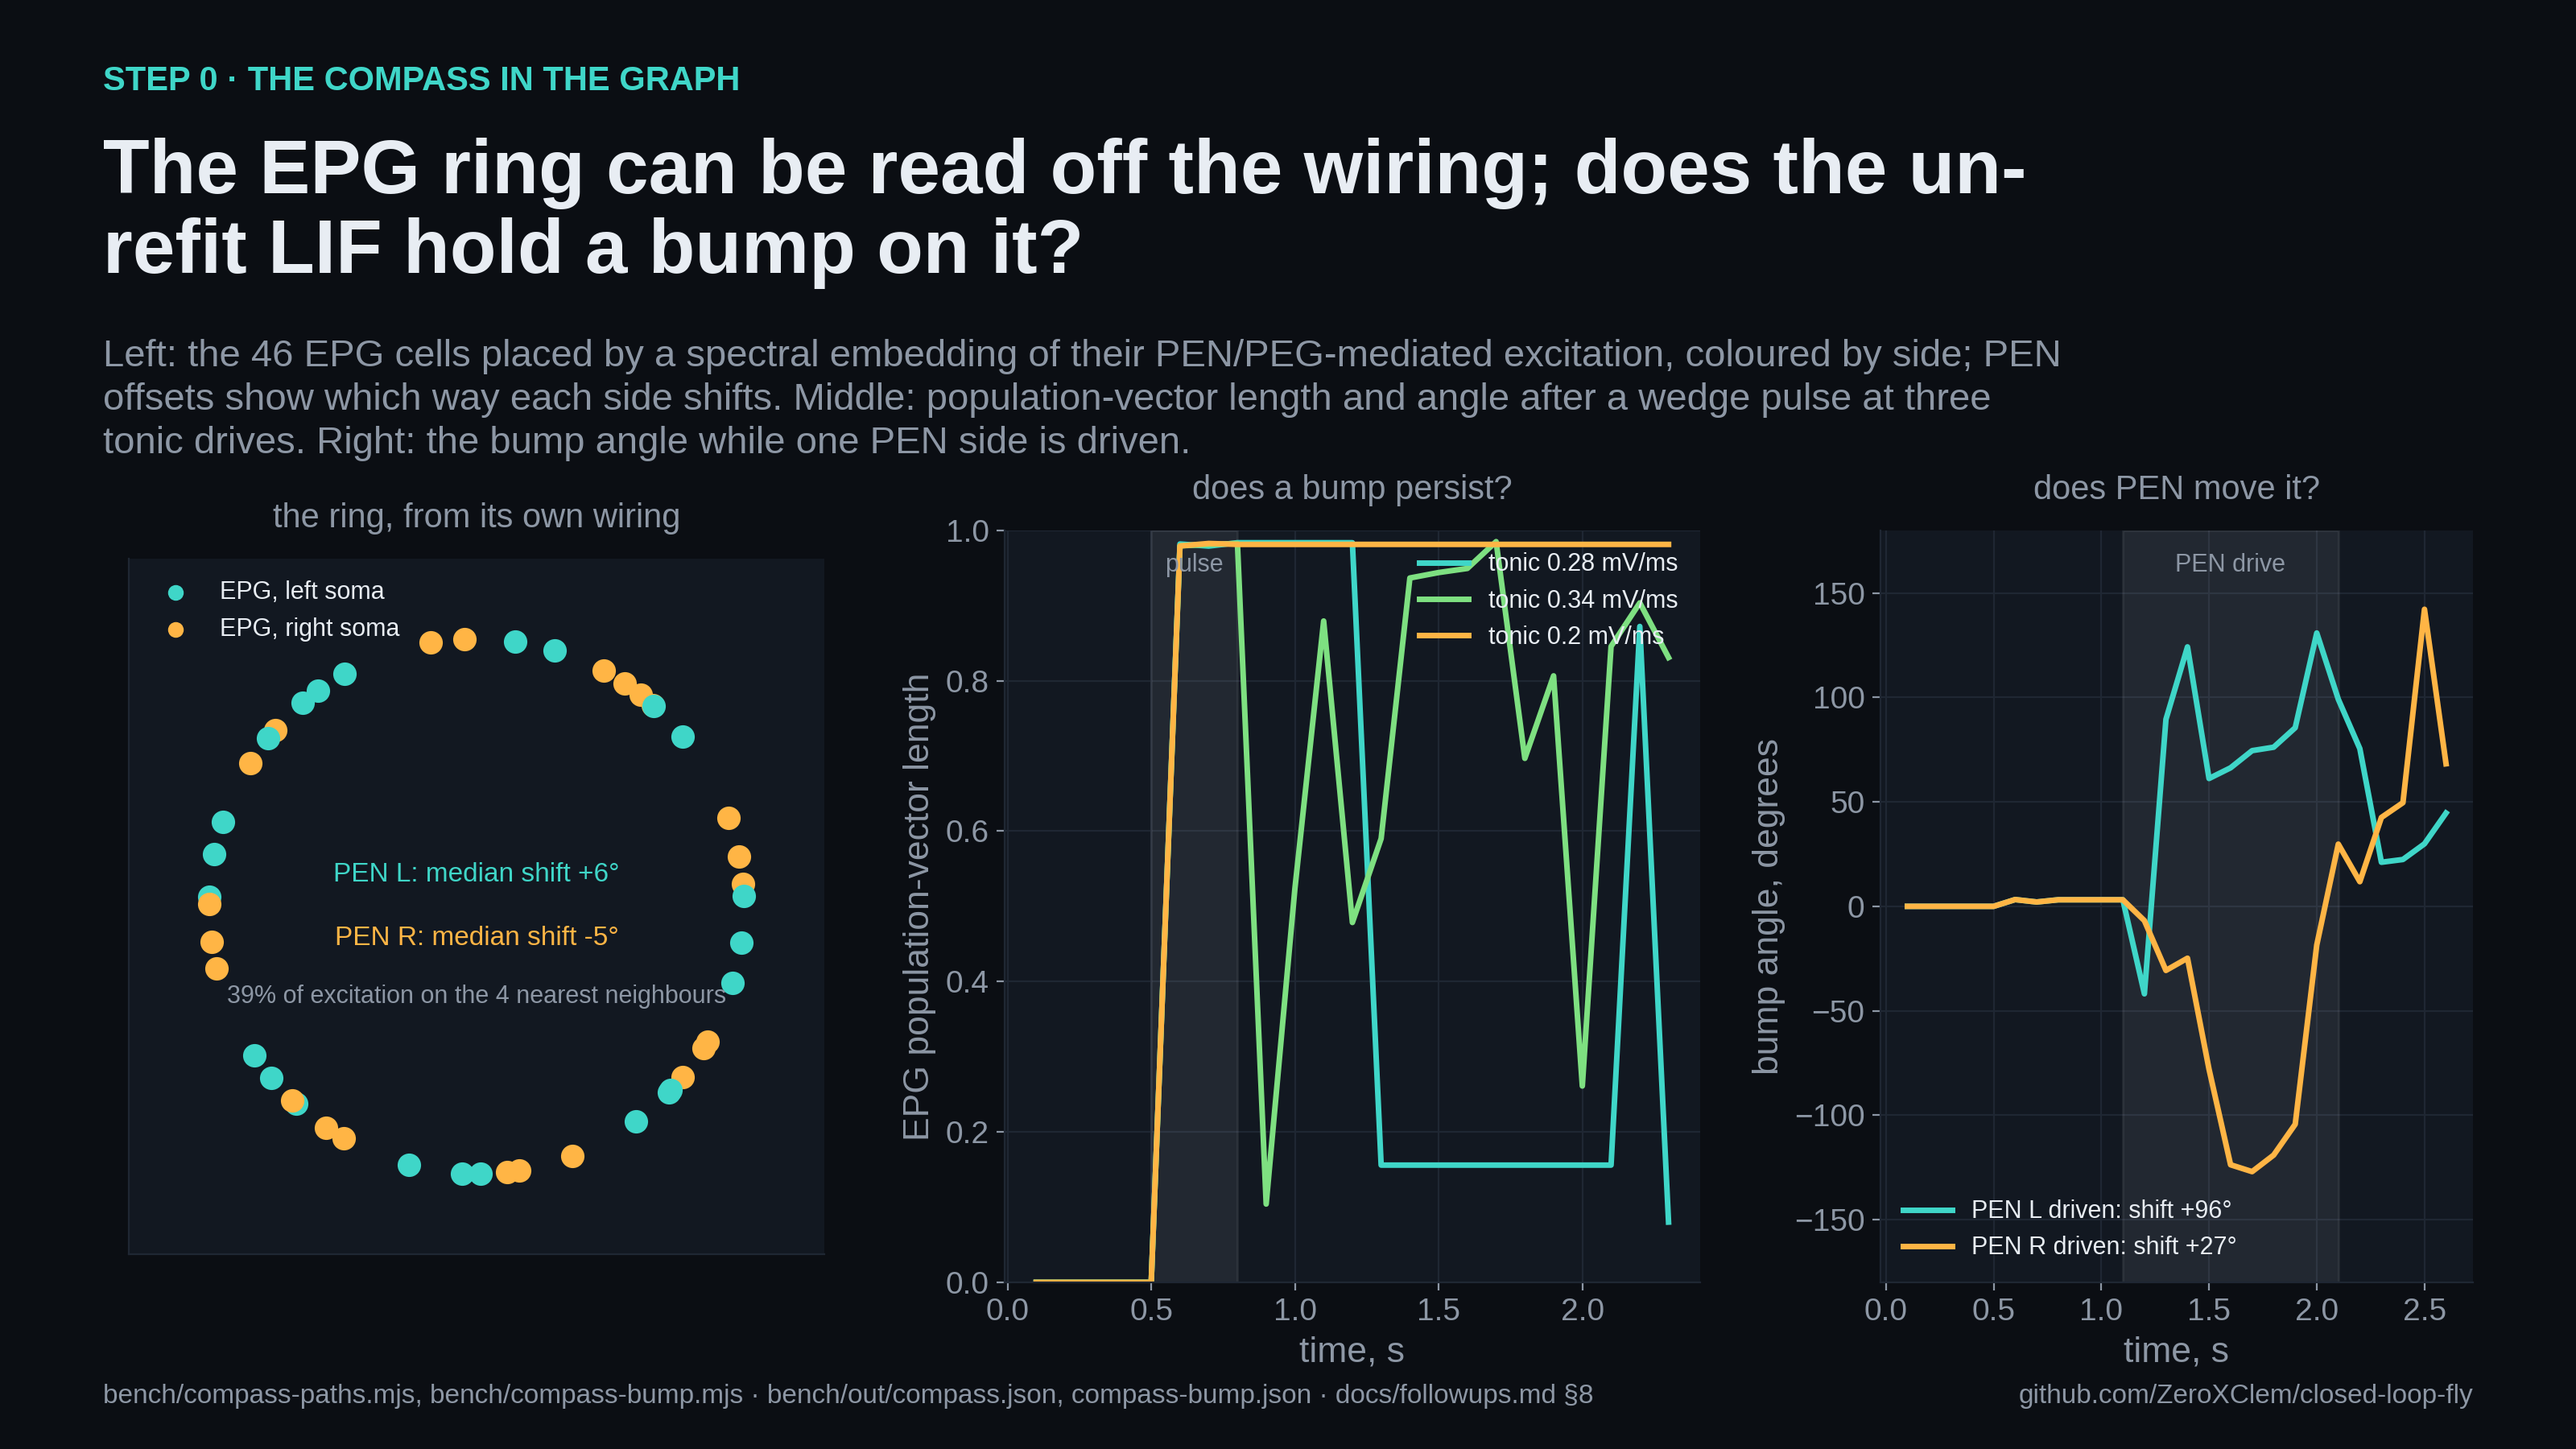
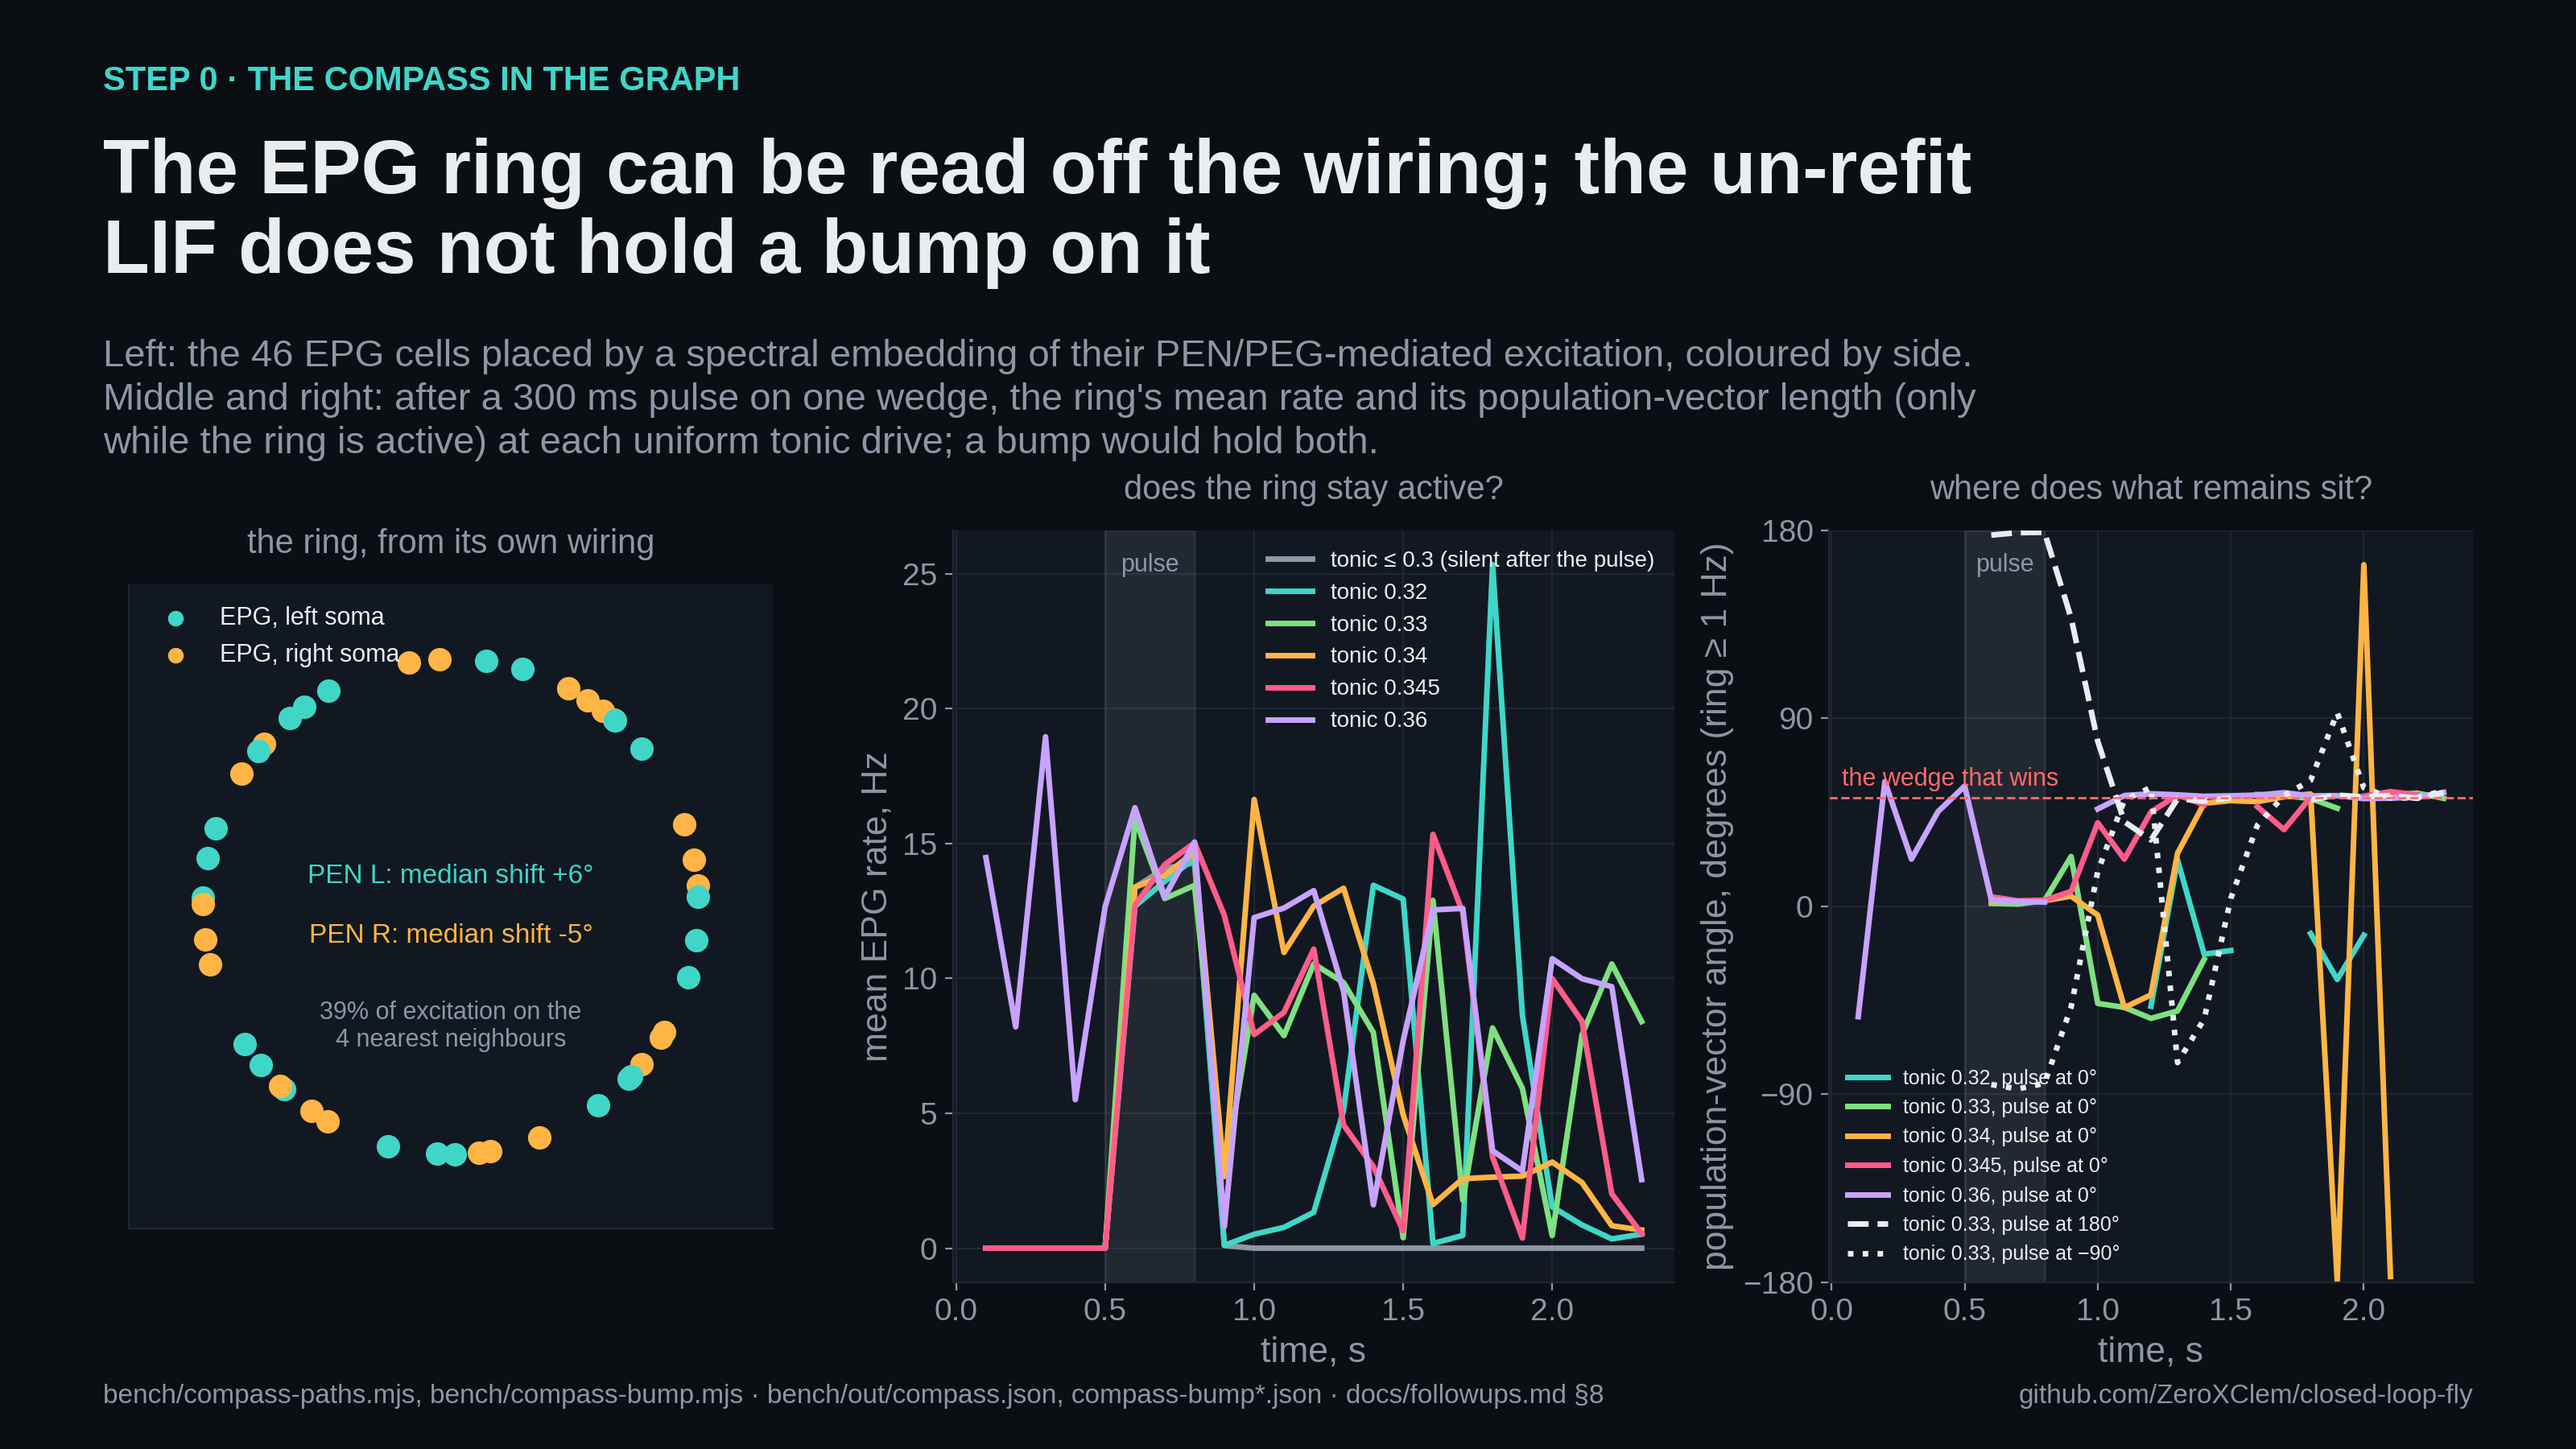
Step 0a closed: the compass is in the graph, the un-refit LIF's ring is a fixed point
bench/compass-bump.mjs (--tonics, --wedge, --out, --no-pen): uniform EPG tonic 0.20-0.36
mV/ms with a 300 ms wedge pulse. Below 0.32 the ring goes silent; from 0.33 up it survives
but always at the same wedge (~52 deg on the spectral ring) whether the pulse was at 0,
180 or -90 deg. No bump, no memory. docs/followups.md section 8 verdict, figure 22 (rate,
angle, off-wedge controls), HANDOFF step 0 (a closed, b open).

Claude-Session: https://claude.ai/code/session_01Xuh7MvrT6H8pCesLxmq4MB

diff --git a/docs/figures/make.py b/docs/figures/make.py
@@ -561,13 +561,18 @@ ALL.update(flight_gain=flight_gain, adaptation=adaptation)
 
 
 def compass():
-    cx, bp = load('compass.json'), load('compass-bump.json')
+    cx = load('compass.json')
     if not cx: return print('skip compass (no run)')
-    f, top = fig('Step 0 · the compass in the graph', 'The EPG ring can be read off the wiring; does the un-refit LIF hold a bump on it?',
-                 'Left: the 46 EPG cells placed by a spectral embedding of their PEN/PEG-mediated excitation, coloured by side; PEN offsets show which way each side shifts. '
-                 'Middle: population-vector length and angle after a wedge pulse at three tonic drives. Right: the bump angle while one PEN side is driven.',
-                 'bench/compass-paths.mjs, bench/compass-bump.mjs · bench/out/compass.json, compass-bump.json · docs/followups.md §8')
-    ax = f.add_axes([0.05, BOTTOM, 0.27, top - BOTTOM]); panel(ax); ax.set_aspect('equal'); ax.grid(False)
+    runs = []
+    for f_ in ('compass-bump.json', 'compass-bump-fine.json'):
+        d = load(f_)
+        if d: runs += d['A']
+    runs = sorted(runs, key=lambda a: a['tonic'])
+    f, top = fig('Step 0 · the compass in the graph', 'The EPG ring can be read off the wiring; the un-refit LIF does not hold a bump on it',
+                 'Left: the 46 EPG cells placed by a spectral embedding of their PEN/PEG-mediated excitation, coloured by side. Middle and right: after a 300 ms pulse on one '
+                 'wedge, the ring\'s mean rate and its population-vector length (only while the ring is active) at each uniform tonic drive; a bump would hold both.',
+                 'bench/compass-paths.mjs, bench/compass-bump.mjs · bench/out/compass.json, compass-bump*.json · docs/followups.md §8')
+    ax = f.add_axes([0.05, BOTTOM, 0.25, top - BOTTOM]); panel(ax); ax.set_aspect('equal'); ax.grid(False)
     for e in cx['ring']['epg']:
         th = np.radians(e['angleDeg']); ax.scatter([np.cos(th)], [np.sin(th)], s=90, color=A if e['side'] == 'L' else B, zorder=3)
     ax.scatter([], [], color=A, label='EPG, left soma'); ax.scatter([], [], color=B, label='EPG, right soma')
@@ -575,23 +580,31 @@ def compass():
     for side, col in [('L', A), ('R', B)]:
         vals = [o['offsetDeg'] for o in offs if o['side'] == side]
         if vals: ax.text(0, 0.12 if side == 'L' else -0.12, f'PEN {side}: median shift {np.median(vals):+.0f}°', ha='center', va='center', color=col, fontsize=12)
-    ax.text(0, -0.36, f"{cx['ring']['localShare4'] * 100:.0f}% of excitation on the 4 nearest neighbours", ha='center', color=MUTED, fontsize=11)
+    ax.text(0, -0.38, f"{cx['ring']['localShare4'] * 100:.0f}% of excitation on the\n4 nearest neighbours", ha='center', va='top', color=MUTED, fontsize=11)
     ax.set_xlim(-1.3, 1.3); ax.set_ylim(-1.3, 1.3); ax.set_xticks([]); ax.set_yticks([]); ax.legend(loc='upper left', frameon=False, fontsize=11); ax.set_title('the ring, from its own wiring', color=MUTED, fontsize=15)
-    ax2 = f.add_axes([0.39, BOTTOM, 0.27, top - BOTTOM]); panel(ax2)
-    if bp:
-        cols = [A, GOOD, B, DN, WARN]
-        for k, a in enumerate(bp['A']):
-            tr = a['trace']; ax2.plot([r['t'] for r in tr], [r['pvl'] for r in tr], color=cols[k % 5], lw=2.5, label=f"tonic {a['tonic']} mV/ms{'  ·  bump' if a['bump'] else ''}")
-        ax2.axvspan(0.5, 0.8, color=INK, alpha=0.08); ax2.text(0.65, 0.97, 'pulse', transform=ax2.get_xaxis_transform(), ha='center', va='top', color=MUTED, fontsize=11)
-        ax2.set_xlabel('time, s'); ax2.set_ylabel('EPG population-vector length'); ax2.set_ylim(0, 1); ax2.legend(loc='upper right', frameon=False, fontsize=11)
-    ax2.set_title('does a bump persist?', color=MUTED, fontsize=15)
-    ax3 = f.add_axes([0.73, BOTTOM, 0.23, top - BOTTOM]); panel(ax3)
-    if bp and bp.get('B'):
-        for row, col in zip(bp['B'], [A, B]):
-            tr = row['trace']; ax3.plot([r['t'] for r in tr], [r['angleDeg'] for r in tr], color=col, lw=2.5, label=f"PEN {row['side']} driven: shift {row['shiftDeg']:+.0f}°")
-        ax3.axvspan(1.1, 2.1, color=INK, alpha=0.08); ax3.text(1.6, 0.97, 'PEN drive', transform=ax3.get_xaxis_transform(), ha='center', va='top', color=MUTED, fontsize=11)
-        ax3.set_xlabel('time, s'); ax3.set_ylabel('bump angle, degrees'); ax3.set_ylim(-180, 180); ax3.legend(loc='lower left', frameon=False, fontsize=11)
-    ax3.set_title('does PEN move it?', color=MUTED, fontsize=15)
+    cols = [A, GOOD, B, DN, WARN, INK, MUTED, '#9ad0ff']
+    ax2 = f.add_axes([0.37, BOTTOM, 0.28, top - BOTTOM]); panel(ax2)
+    ax3 = f.add_axes([0.71, BOTTOM, 0.25, top - BOTTOM]); panel(ax3)
+    shown = [a for a in runs if a['tonic'] >= 0.32]
+    silent = [a for a in runs if a['tonic'] < 0.32]
+    if silent:
+        tr = silent[0]['trace']; ax2.plot([r['t'] for r in tr], [r['meanHz'] for r in tr], color=MUTED, lw=2.5, label=f"tonic ≤ {max(a['tonic'] for a in silent)} (silent after the pulse)")
+    for k, a in enumerate(shown):
+        tr = a['trace']; t = [r['t'] for r in tr]
+        ax2.plot(t, [r['meanHz'] for r in tr], color=cols[k % len(cols)], lw=2.5, label=f"tonic {a['tonic']}")
+        ax3.plot(t, [r['angleDeg'] if r['meanHz'] >= 1 else np.nan for r in tr], color=cols[k % len(cols)], lw=2.5, label=f"tonic {a['tonic']}, pulse at 0°")
+    # control pulses elsewhere on the ring (pinning test)
+    for f_, ls, lab in (('compass-bump-w180.json', '--', 'pulse at 180°'), ('compass-bump-w270.json', ':', 'pulse at −90°')):
+        d = load(f_)
+        if d:
+            for a in d['A']:
+                tr = a['trace']; ax3.plot([r['t'] for r in tr], [r['angleDeg'] if r['meanHz'] >= 1 else np.nan for r in tr], color=INK, lw=2.5, ls=ls, label=f"tonic {a['tonic']}, {lab}")
+    for axx in (ax2, ax3):
+        axx.axvspan(0.5, 0.8, color=INK, alpha=0.08); axx.text(0.65, 0.97, 'pulse', transform=axx.get_xaxis_transform(), ha='center', va='top', color=MUTED, fontsize=11); axx.set_xlabel('time, s')
+    ax2.set_ylabel('mean EPG rate, Hz'); ax2.legend(loc='upper right', frameon=False, fontsize=10); ax2.set_title('does the ring stay active?', color=MUTED, fontsize=15)
+    ax3.set_ylabel('population-vector angle, degrees (ring ≥ 1 Hz)'); ax3.set_ylim(-180, 180); ax3.set_yticks([-180, -90, 0, 90, 180]); ax3.legend(loc='lower left', frameon=False, fontsize=9)
+    ax3.axhline(52, color=BAD, lw=1, ls='--'); ax3.text(0.02, 0.66, 'the wedge that wins', transform=ax3.transAxes, color=BAD, fontsize=11)
+    ax3.set_title('where does what remains sit?', color=MUTED, fontsize=15)
     save(f, '22-compass')
 
 ALL.update(compass=compass)

diff --git a/docs/followups.md b/docs/followups.md
@@ -347,3 +347,43 @@ would be the network's: if the EPG ring integrates that input into a persistent 
 gets a heading estimate held by the connectome, and a decoded heading error (bump angle versus
 the starting angle) can replace the rotation reflex. Whether the un-refit LIF holds a bump at
 all is the next test (`bench/compass-bump.mjs`).
+
+**The bump test** (`bench/compass-bump.mjs`, `bench/out/compass-bump*.json`, figure 22). A uniform
+tonic current on all 46 EPG cells, a 300 ms pulse of +1 mV/ms on the wedge of six cells around
+0° of the spectral ring, then 1.5 s free. The ring's mean rate and its population vector
+(length PVL, angle) tell whether a localised, persistent state forms.
+
+| EPG tonic, mV/ms | pulse end: EPG Hz, PVL @ angle | +0.5 s free | +1.5 s free |
+| --- | --- | --- | --- |
+| 0.20, 0.28, 0.30 | 14 Hz, 0.98 @ 2° | 0 Hz | 0 Hz (silent) |
+| 0.32 | 14 Hz, 0.98 @ 3° | 5.1 Hz, 0.56 @ 22° | 0.5 Hz |
+| 0.33 | 15 Hz, 0.98 @ 3° | 9.8 Hz, 0.95 @ −50° | 8.4 Hz, 0.99 @ **52°** |
+| 0.34 | 15 Hz, 0.98 @ 3° | 13.3 Hz, 0.59 @ 25° | 0.7 Hz |
+| 0.345 | 15 Hz, 0.98 @ 3° | 4.6 Hz, 0.97 @ 53° | 0.5 Hz |
+| 0.36 (above threshold) | 15 Hz, 0.98 @ 3° | 9.5 Hz, 0.96 @ **53°** | 2.5 Hz, 0.97 @ 55° |
+
+**Reading.** Below 0.32 mV/ms the ring goes silent the moment the pulse ends: there is no
+recurrent excitation strong enough to sustain it. From 0.33 upward activity survives, but not
+where the pulse put it: within half a second it sits at 52–55° on the spectral ring, whatever
+was pulsed at 0°, and it stays there (0.33: 8.4 Hz at 52° after 1.5 s). That is not a
+continuous attractor holding a heading; it is a fixed point, a wedge that wins because in the
+un-refit graph it has the most recurrent excitation, and the pulse's position is forgotten. The
+window between "silent" and "pinned" is a few hundredths of a millivolt per millisecond wide and
+contains no bump.
+
+**The control settles it.** At tonic 0.33 a pulse at 180° leaves the ring firing at 51° after
+half a second and 54° after 1.5 s; a pulse at −90° passes through a scrambled state (PVL 0.06 at
+half a second) and lands at 55°. Three pulse positions, one resting place. The un-refit ring has
+a single fixed point and no memory of where it was pushed (`bench/out/compass-bump-w180.json`,
+`compass-bump-w270.json`; figure 22).
+
+**Verdict on step 0a.** The heading circuit is complete in the graph, down to PFL3 → DNa02, and
+it is not usable in this model for three separate reasons, each sufficient: the loop carries no
+input that reaches it (halteres, HS, LC4, LPLC2 all zero at two hops); the fitted optic net lacks
+the MeTu cells that would give it landmarks; and the LIF with one synaptic constant turns the
+ring attractor into a fixed point. The first two could be proxied, as the haltere was. The third
+cannot be fixed without tuning the EPG–PEN–Δ7 recurrence, and that is the fitted-network step
+the whole repo is built to stay short of. Kakaria and de Bivort's connectome-derived ring
+attractor works because its gains are chosen to make it work; the review's point again, now in
+the compass. Route 0a is closed. What remains for a stabiliser is route 0b, a haltere model
+that encodes rotation onto the wing-steering motor neurons, or admitting a fitted stage.

diff --git a/HANDOFF.md b/HANDOFF.md
@@ -144,11 +144,15 @@ mV/ms), `hold=frame|substep`, `motor=hover|vnc`, `readout=dng02|dna02`, `gate=0|
 ## Next steps, in the order I would take them
 
 0. **A stabiliser that is not a readout trick** (everything below §3 of docs/followups.md points
-   here). Two candidates, both real anatomy: (a) read heading from the central complex (EPG /
-   PEN compass cells exist in [B]; give the loop a heading error, not a rotation reflex); (b) a
-   haltere model whose afferents encode rotation phase onto the wing-steering MNs (b1/b2/i1, in
-   `bench/out/motor-neurons.json`) instead of a yaw-rate current. Run every closed-loop claim as
-   ≥ 3 realisations (different warm-up) before writing it down.
+   here). (a) ~~read heading from the central complex~~ **tried 2026-09-07 night, closed** (§8):
+   the compass is complete in the graph (EPG 46, PEN 42, Δ7 42, PFL3 → DNa02 736 synapses, ring
+   order recoverable from the wiring), but nothing the loop carries reaches it, optic-v2 has no
+   MeTu, and the un-refit LIF's ring is a fixed point at one wedge (~52° on the spectral ring)
+   for any pulse position and any tonic drive: no bump, no memory. Making it a compass means
+   tuning EPG–PEN–Δ7 gains, i.e. a fitted stage. `bench/compass-paths.mjs`, `bench/compass-bump.mjs`.
+   (b) **still open**: a haltere model whose afferents encode rotation phase onto the wing-steering
+   MNs (b1/b2/i1, in `bench/out/motor-neurons.json`) instead of a yaw-rate current. Run every
+   closed-loop claim as ≥ 3 realisations (different warm-up) before writing it down.
 
 
 1. ~~Kill or confirm the octopamine hypothesis~~ **Done 2026-09-07 evening, killed**:
